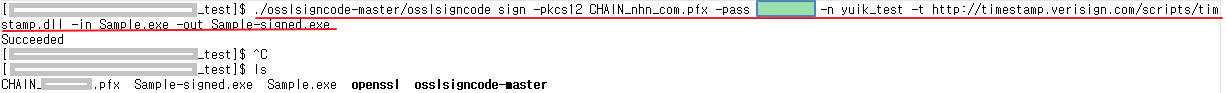
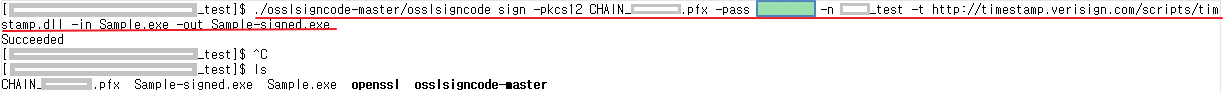
no message

Changed region(s): [[0.4959, 0.043, 0.5579, 0.1505], [0.6819, 0.0215, 0.7129, 0.172]]

diff --git a/_posts/2019-11-11-windows-code-sign.md b/_posts/2019-11-11-windows-code-sign.md
@@ -153,18 +153,18 @@ published: true
 ![image]({{ site.url }}{{ site.baseurl }}/assets/images/2019-11-11-windows-code-sign-013.png)
 * 코드사이닝 잘 되는지 한번 해보기
 ```
-./osslsigncode-master/osslsigncode sign -pkcs12 CHAIN_nhn_com.pfx -pass PASSWORD -n yuik_test -h sha256  -t http://timestamp.verisign.com/scripts/timstamp.dll -in Sample.exe -out Sample-signed.exe 
+./osslsigncode-master/osslsigncode sign -pkcs12 CHAIN.pfx -pass PASSWORD -n test -h sha256  -t http://timestamp.verisign.com/scripts/timstamp.dll -in Sample.exe -out Sample-signed.exe 
 ```
 ![image]({{ site.url }}{{ site.baseurl }}/assets/images/2019-11-11-windows-code-sign-014.png)
 
 * 교차 인증서도 적용해보기.
 ```
-./osslsigncode-master/osslsigncode sign -pkcs12 CHAIN_nhn_com.pfx -pass PASSWORD  -ac MSCV_COMODOAddTrust.crt  -n yuik_test -h sha256  -t http://timestamp.verisign.com/scripts/timstamp.dll -in Sample.exe -out Sample-signed-crt.exe 
+./osslsigncode-master/osslsigncode sign -pkcs12 CHAIN.pfx -pass PASSWORD  -ac MSCV_COMODOAddTrust.crt  -n test -h sha256  -t http://timestamp.verisign.com/scripts/timstamp.dll -in Sample.exe -out Sample-signed-crt.exe 
 ```
 ![image]({{ site.url }}{{ site.baseurl }}/assets/images/2019-11-11-windows-code-sign-015.png)
 * 시간 생성 알고리즘 바꿔보기
 ```
-./osslsigncode-master/osslsigncode sign -pkcs12 CHAIN_nhn_com.pfx -pass PASSWORD  -ac MSCV_COMODOAddTrust.crt  -n yuik_test -h sha256  -t  http://timestamp.comodoca.com/rfc3161  -in Sample.exe -out Sample-signed-crt.exe 
+./osslsigncode-master/osslsigncode sign -pkcs12 CHAIN.pfx -pass PASSWORD  -ac MSCV_COMODOAddTrust.crt  -n test -h sha256  -t  http://timestamp.comodoca.com/rfc3161  -in Sample.exe -out Sample-signed-crt.exe 
 ```
 ![image]({{ site.url }}{{ site.baseurl }}/assets/images/2019-11-11-windows-code-sign-016.png)
 * 첨부파일 설명 (code sign.zip 압축 풀면 아래와 같이 나온다.)
